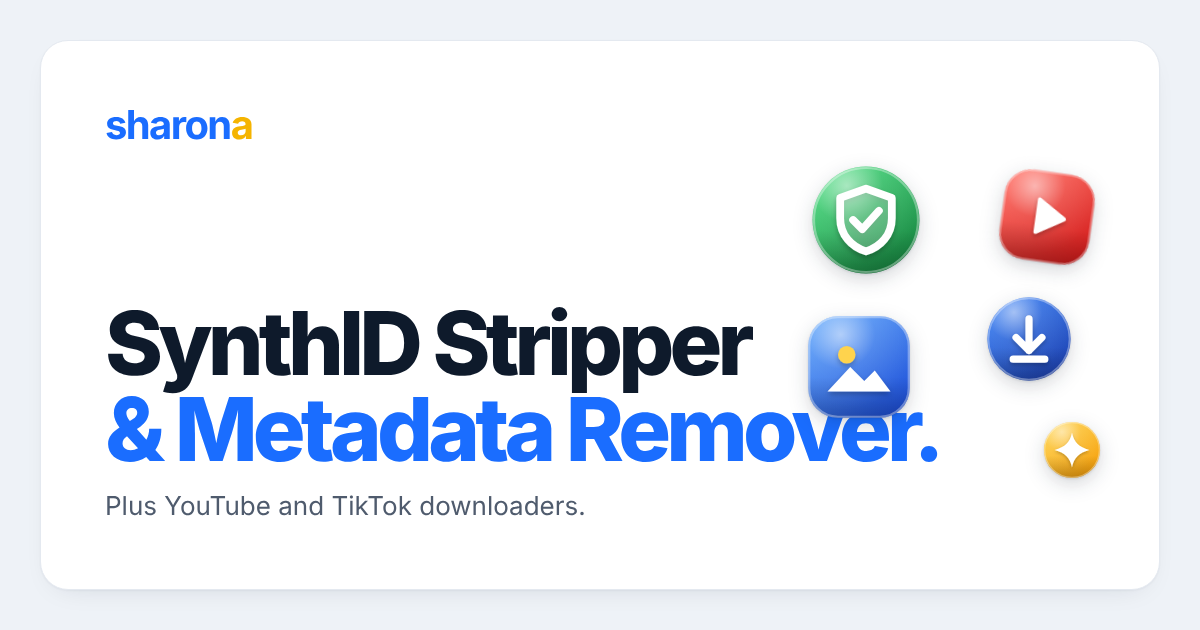
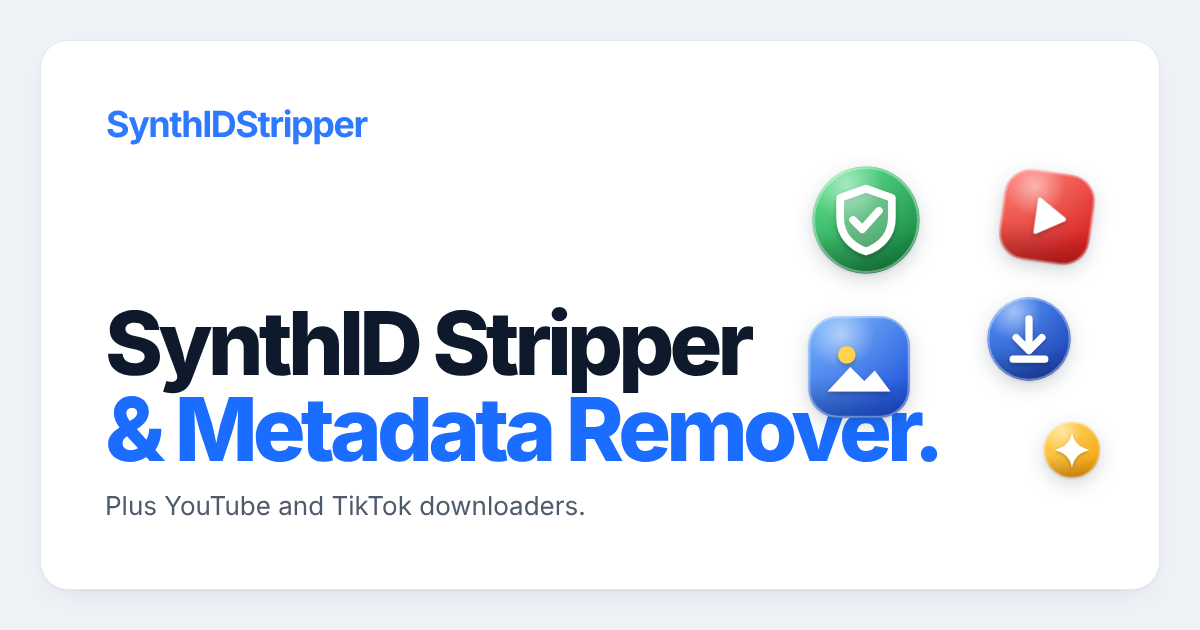
Rebrand to SynthIDStripper, Pro promo on download guides, fix AI-label screenshots
- Product name is SynthIDStripper everywhere users see it: wordmarks, titles,
  meta and OG tags, JSON-LD (via SITE_NAME), web manifest, 404 page, OG image,
  README and setup docs (Stripe product and Google OAuth names). Internal
  identifiers (D1 databases, Durable Object class, internal header and its
  HMAC salt) keep their names so production keeps working.
- Download guides show a Pro card and a Pro-only plans promo instead of the
  $2 strip pack, which doesn't cover downloads. New copy in all 10 languages.
- The Auto-labelled / Your choice tags sit above the screenshots instead of
  over them, and both screenshots now render at the same size.
- Header spacing tuned so the longer wordmark fits on phones and desktop.

Claude-Session: https://claude.ai/code/session_01FnJ4GKznDkuGtkakc6XU88

Changed region(s): [[0.0925, 0.1508, 0.3083, 0.2413]]

diff --git a/web/src/pages/Pages.tsx b/web/src/pages/Pages.tsx
@@ -143,7 +143,7 @@ export function Shell({
   return (
     <div className="page doc-page">
       <header className="card doc-head">
-        <a className="wordmark" href={langPath(lang)} aria-label={`${SITE_NAME} ${ui.home}`}>sharona</a>
+        <a className="wordmark" href={langPath(lang)} aria-label={`${SITE_NAME} ${ui.home}`}>SynthIDStripper</a>
         <nav className="nav" aria-label={ui.navLabel}>
           <a href={`${langPrefix(lang)}/guides/`}>{ui.guides}</a>
           <a href={`${langPath(lang)}#pricing`}>{ui.pricing}</a>
@@ -241,21 +241,44 @@ export function PackCard({ lang, top }: { lang: string; top?: boolean }) {
 }
 
 /**
- * The plans promo (the $2 strip pack, Basic and Pro) shown on every guide and
- * content page. Copy comes from the landing page's pricing strings, so it
- * matches the pricing section in every language.
+ * The download guides' top card: downloads run on our server and need Pro, so
+ * the $2 strip pack would not help these readers. Styled like PackCard.
  */
-export function PlansPromo({ lang }: { lang: string }) {
+export function ProDownloadCard({ lang, tool }: { lang: string; tool: string }) {
   const ui = pagesUi(lang);
   const p = getDict(lang).pricing;
   return (
+    <div className="price-pack pack-top">
+      <span className="price-pack-badge">{ui.promo.download.badge}</span>
+      <div>
+        <p className="price-name">{p.pro.name}</p>
+        <p className="price-pack-text">{fill(ui.promo.download.cardText)}</p>
+      </div>
+      <p className="price-tag"><b>{PRICES.pro}</b> {p.perMonth}</p>
+      <a className="cta" href={`${APP}#${tool}`}>{ui.promo.download.cta}</a>
+    </div>
+  );
+}
+
+/**
+ * The plans promo (the $2 strip pack, Basic and Pro) shown on every guide and
+ * content page. Copy comes from the landing page's pricing strings, so it
+ * matches the pricing section in every language. On download guides
+ * (`downloads`) it shows only Pro, the one plan that includes downloads.
+ */
+export function PlansPromo({ lang, downloads }: { lang: string; downloads?: boolean }) {
+  const ui = pagesUi(lang);
+  const p = getDict(lang).pricing;
+  const copy = downloads ? ui.promo.download : ui.promo;
+  const plans = downloads ? (['pro'] as const) : (['basic', 'pro'] as const);
+  return (
     <aside className="card promo" aria-labelledby="promo-h">
       <p className="eyebrow">{ui.promo.eyebrow}</p>
-      <h2 id="promo-h" className="display xs"><Pair p={[fill(ui.promo.title[0]), fill(ui.promo.title[1])]} /></h2>
-      <p className="lede">{fill(ui.promo.text)}</p>
-      <PackCard lang={lang} />
-      <div className="price-plans">
-        {(['basic', 'pro'] as const).map((id) => {
+      <h2 id="promo-h" className="display xs"><Pair p={[fill(copy.title[0]), fill(copy.title[1])]} /></h2>
+      <p className="lede">{fill(copy.text)}</p>
+      {!downloads && <PackCard lang={lang} />}
+      <div className={`price-plans${downloads ? ' price-plans-one' : ''}`}>
+        {plans.map((id) => {
           const plan = p[id];
           return (
             <div key={id} className={`price${id === 'pro' ? ' price-best' : ''}`}>
@@ -293,6 +316,7 @@ export function GuidePage({ guide: g, lang = DEFAULT_LANG }: { guide: Guide; lan
     .map((r) => r && localGuide(r, lang))
     .filter((r): r is Guide => Boolean(r));
   const showToc = g.sections.length >= 4;
+  const downloads = g.kind === 'download';
   return (
     <Shell
       lang={lang}
@@ -309,7 +333,7 @@ export function GuidePage({ guide: g, lang = DEFAULT_LANG }: { guide: Guide; lan
           </div>
         </div>
         {g.intro.map((p) => <p key={p} className="lede doc-lede"><Rich s={p} lang={lang} /></p>)}
-        <PackCard lang={lang} top />
+        {downloads ? <ProDownloadCard lang={lang} tool={g.tool} /> : <PackCard lang={lang} top />}
 
         {showToc && (
           <nav className="toc" aria-label={ui.contents}>
@@ -346,7 +370,7 @@ export function GuidePage({ guide: g, lang = DEFAULT_LANG }: { guide: Guide; lan
         )}
       </article>
 
-      <PlansPromo lang={lang} />
+      <PlansPromo lang={lang} downloads={downloads} />
 
       {related.length > 0 && (
         <nav className="card doc-related" aria-labelledby="related">

diff --git a/test/worker.test.js b/test/worker.test.js
@@ -13,7 +13,7 @@ const { spawn } = require('child_process');
 const { d1Http, createStore } = require('../server/store');
 const { fakeD1 } = require('./fake-d1');
 
-const SITE = 'https://sharona.test';
+const SITE = 'https://synthidstripper.test';
 const SECRET = 'session-secret-for-tests';
 
 const ASSET_FILES = {
@@ -83,9 +83,9 @@ test('pages, static files and every on-device step are answered by the Worker al
   const s = await setup();
   const res = await s.call('GET', '/');
   assert.equal(res.status, 200);
-  assert.equal(await res.text(), `<a href="${SITE}/app/">support@sharona.test</a>`);
+  assert.equal(await res.text(), `<a href="${SITE}/app/">support@synthidstripper.test</a>`);
   assert.equal((await s.call('GET', '/app/')).status, 200);
-  assert.match(await (await s.call('GET', '/app/#strip')).text(), /sharona\.test/);
+  assert.match(await (await s.call('GET', '/app/#strip')).text(), /synthidstripper\.test/);
   assert.equal((await s.call('GET', '/app')).headers.get('location'), '/app/');
   assert.equal((await s.call('GET', '/es')).headers.get('location'), '/es/');
   assert.equal((await s.call('GET', '/es/')).status, 200);
@@ -100,10 +100,10 @@ test('pages, static files and every on-device step are answered by the Worker al
   assert.match(js.headers.get('cache-control'), /immutable/);
   assert.equal((await s.call('GET', '/assets/ffmpeg-core-1.wasm.part0')).status, 200);
   const sitemap = await (await s.call('GET', '/sitemap.xml')).text();
-  assert.match(sitemap, /<loc>https:\/\/sharona\.test\/es\/<\/loc>/);
-  assert.match(sitemap, /<loc>https:\/\/sharona\.test\/es\/guides\/strip-synthid\/<\/loc>/);
-  assert.match(sitemap, /hreflang="es" href="https:\/\/sharona\.test\/es\/guides\/strip-synthid\/"/);
-  assert.match(sitemap, /hreflang="x-default" href="https:\/\/sharona\.test\/guides\/strip-synthid\/"/);
+  assert.match(sitemap, /<loc>https:\/\/synthidstripper\.test\/es\/<\/loc>/);
+  assert.match(sitemap, /<loc>https:\/\/synthidstripper\.test\/es\/guides\/strip-synthid\/<\/loc>/);
+  assert.match(sitemap, /hreflang="es" href="https:\/\/synthidstripper\.test\/es\/guides\/strip-synthid\/"/);
+  assert.match(sitemap, /hreflang="x-default" href="https:\/\/synthidstripper\.test\/guides\/strip-synthid\/"/);
   assert.match(await (await s.call('GET', '/robots.txt')).text(), /Disallow: \/api\//);
   assert.deepEqual(await (await s.call('GET', '/api/health')).json(), { ok: true });
   assert.equal((await (await s.call('GET', '/api/download/platforms')).json()).length, 4);
@@ -365,7 +365,7 @@ test('a branch preview: dev sign-in and test upgrade, its own URL, kept out of s
   assert.equal(me.signIn, 'dev');
   assert.deepEqual(me.dev, { auth: true, billing: true });
   // Links use the request's own origin (SITE_URL is empty).
-  assert.match(await (await s.call('GET', '/app/')).text(), /https:\/\/sharona\.test/);
+  assert.match(await (await s.call('GET', '/app/')).text(), /https:\/\/synthidstripper\.test/);
   assert.equal(await (await s.call('GET', '/robots.txt')).text(), 'User-agent: *\nDisallow: /\n');
   // Sign in without Google, upgrade without Stripe, then a download goes through.
   const signIn = await s.call('GET', '/api/auth/dev?email=tester@preview&next=/app/');

diff --git a/web/src/landing/landing.css b/web/src/landing/landing.css
@@ -9,7 +9,7 @@ a { color: inherit; }
 .page { gap: 16px; }
 section[id] { scroll-margin-top: 16px; }
 
-.wordmark { text-decoration: none; }
+.wordmark { text-decoration: none; white-space: nowrap; }
 .hero .card-head { gap: 8px 22px; }
 .nav { display: flex; flex-wrap: wrap; justify-content: flex-end; align-items: center; gap: 4px 14px; min-width: 0; margin-left: auto; font-weight: 650; font-size: 14.5px; }
 .nav a { text-decoration: none; color: var(--soft); white-space: nowrap; }
@@ -220,7 +220,7 @@ h3 { font-size: 17px; font-weight: 750; letter-spacing: -0.015em; }
   .price-pack { justify-items: start; }
   /* Header: wordmark, "Open tools" and a burger on one row; the section
      links drop down from the burger. */
-  .hero .wordmark { font-size: 26px; margin-right: auto; }
+  .hero .wordmark { font-size: clamp(16px, 4.8vw, 26px); margin-right: auto; }
   .head-cta { padding: 10px 16px; }
   .hero .hero-body { margin-top: 26px; }
   .eyebrow { font-size: 11.5px; margin-bottom: 12px; }
@@ -435,13 +435,13 @@ h3 { font-size: 17px; font-weight: 750; letter-spacing: -0.015em; }
 
 /* ---------- "Stop the AI label" before/after screenshots ---------- */
 .shots { margin-top: 24px; display: grid; grid-template-columns: repeat(2, minmax(0, 1fr)); gap: 16px; }
-.shot { position: relative; margin: 0; padding: 14px; border-radius: 22px; background: #f8fafc; border: 1px solid var(--line); }
-.shot img { display: block; width: 100%; height: auto; border-radius: 13px; border: 1px solid var(--line); background: #fff; }
+.shot { margin: 0; padding: 14px; border-radius: 22px; background: #f8fafc; border: 1px solid var(--line); }
+/* Both screenshots share one box, so they render at the same size. */
+.shot img { display: block; width: 100%; height: auto; aspect-ratio: 1072 / 299; object-fit: contain; border-radius: 13px; border: 1px solid var(--line); background: #f8f8f8; }
+/* The tag sits above the screenshot, not over it. */
 .shot-tag {
-  position: absolute;
-  z-index: 1;
-  top: 24px;
-  right: 24px;
+  display: inline-block;
+  margin-bottom: 10px;
   padding: 4px 11px;
   border-radius: 999px;
   font-size: 12px;
@@ -559,4 +559,11 @@ h3 { font-size: 17px; font-weight: 750; letter-spacing: -0.015em; }
 
 @media (max-width: 640px) {
   .shots { grid-template-columns: minmax(0, 1fr); }
+}
+
+/* The longer "SynthIDStripper" wordmark: keep the desktop nav on one line. */
+@media (min-width: 1081px) {
+  .hero .wordmark { font-size: 24px; }
+  .hero .card-head { gap: 8px 16px; }
+  .nav { gap: 4px 10px; font-size: 14px; }
 }

diff --git a/web/src/pages/i18n/ru.ts b/web/src/pages/i18n/ru.ts
@@ -65,6 +65,13 @@ export const ru: PagesTranslation = {
       text: 'Первые очистки и скачивания бесплатны. Дальше попробуйте 10 очисток SynthID за $2 или переходите на безлимит с Basic или Pro.',
       orYearly: 'или {price} / год',
       seePlans: 'Сравнить все тарифы',
+      download: {
+        badge: 'Безлимитные скачивания',
+        title: ['Скачивайте без ограничений.', 'С Pro.'],
+        text: 'Первое скачивание видео бесплатно. Скачивание идёт через наш сервер, поэтому дальше нужен Pro: безлимитные скачивания с YouTube, X, TikTok и Instagram и более быстрая очистка.',
+        cardText: 'Безлимитное скачивание видео с YouTube, X, TikTok и Instagram, плюс очистка на сервере примерно в 4 раза быстрее. Отмена в любой момент.',
+        cta: 'Скачивать без ограничений',
+      },
     },
   },
   guides: {

diff --git a/web/src/landing/pages.css b/web/src/landing/pages.css
@@ -68,7 +68,7 @@
   .foot-cols, .guide-list, .doc-steps .steps { grid-template-columns: minmax(0, 1fr); }
   .doc-head .nav { display: none; }
   .doc-head .head-cta { margin-left: auto; }
-  .doc-head .wordmark { font-size: 26px; }
+  .doc-head .wordmark { font-size: clamp(16px, 4.8vw, 26px); }
   .doc-top { flex-direction: column; gap: 14px; }
   .doc-steps { padding: 18px; }
   .toc ol { columns: 1; }
@@ -82,3 +82,18 @@
 .promo-more { margin-left: auto; color: var(--blue); font-weight: 700; text-decoration: none; }
 .promo-more:hover { text-decoration: underline; }
 .pack-top { margin-top: 30px; }
+.price-plans-one { grid-template-columns: minmax(0, 1fr); max-width: 460px; }
+
+/* Narrow phones: keep the wordmark, language and "Open tools" on one row. */
+@media (max-width: 420px) {
+  .hero .card-head, .doc-head { gap: 8px 10px; }
+  .doc-head { padding-left: 14px; padding-right: 14px; }
+  .card-head .head-cta, .doc-head .head-cta { padding: 9px 12px; }
+}
+@media (max-width: 359px) {
+  .card-head .head-cta, .doc-head .head-cta { display: none; }
+}
+@media (min-width: 641px) and (max-width: 900px) {
+  .doc-head { gap: 10px 14px; }
+  .doc-head .wordmark { font-size: 22px; }
+}

diff --git a/web/src/landing/Landing.tsx b/web/src/landing/Landing.tsx
@@ -21,7 +21,7 @@ export default function Landing({ siteUrl, lang }: { siteUrl: string; lang: stri
         <section className="card hero" aria-labelledby="top">
           <header className="card-head">
             <a className="wordmark" href={langPath(lang)} aria-label={fill(t.nav.home)}>
-              sharona
+              SynthIDStripper
             </a>
             <nav className="nav" aria-label={t.nav.label}>
               <NavLinks t={t} lang={lang} />
@@ -105,7 +105,7 @@ export default function Landing({ siteUrl, lang }: { siteUrl: string; lang: stri
             </figure>
             <figure className="shot">
               <span className="shot-tag good">{t.detection.cleanTag}</span>
-              <img src="/tiktok-ai-label-optional.jpg" width={1073} height={280} loading="lazy" decoding="async"
+              <img src="/tiktok-ai-label-optional.jpg?v=2" width={1072} height={299} loading="lazy" decoding="async"
                    alt={fill(t.detection.shotOptionalAlt)} />
               <figcaption><b>{fill(t.detection.afterTitle)}</b> {fill(t.detection.afterText)}</figcaption>
             </figure>

diff --git a/web/src/pages/i18n/ja.ts b/web/src/pages/i18n/ja.ts
@@ -65,6 +65,13 @@ export const ja: PagesTranslation = {
       text: '最初の除去とダウンロードは無料です。その後はSynthID除去10回を$2で試すか、BasicまたはProで無制限に使えます。',
       orYearly: 'または {price} / 年',
       seePlans: 'すべてのプランを比較',
+      download: {
+        badge: 'ダウンロード無制限',
+        title: ['ダウンロードを無制限に。', 'Proで。'],
+        text: '最初の動画ダウンロードは無料です。ダウンロードは当社のサーバーで行うため、その後はProが必要です。YouTube、X、TikTok、Instagramから無制限にダウンロードでき、除去も速くなります。',
+        cardText: 'YouTube、X、TikTok、Instagramから動画を無制限にダウンロード。サーバーでの除去も約4倍速くなります。いつでも解約できます。',
+        cta: '無制限にダウンロード',
+      },
     },
   },
   guides: {

diff --git a/web/src/pages/i18n/fr.ts b/web/src/pages/i18n/fr.ts
@@ -65,6 +65,13 @@ export const fr: PagesTranslation = {
       text: 'Vos premiers nettoyages et téléchargements sont gratuits. Ensuite, essayez 10 nettoyages SynthID pour 2 $, ou passez en illimité avec Basic ou Pro.',
       orYearly: 'ou {price} / an',
       seePlans: 'Comparer toutes les offres',
+      download: {
+        badge: 'Téléchargements illimités',
+        title: ['Téléchargez sans limite.', 'Passez à Pro.'],
+        text: 'Votre premier téléchargement vidéo est gratuit. Les téléchargements passent par notre serveur, donc ensuite il faut Pro : téléchargements illimités depuis YouTube, X, TikTok et Instagram, et nettoyage plus rapide.',
+        cardText: 'Téléchargements vidéo illimités depuis YouTube, X, TikTok et Instagram, plus le nettoyage sur serveur environ 4x plus rapide. Résiliable à tout moment.',
+        cta: 'Télécharger sans limite',
+      },
     },
   },
   guides: {

diff --git a/web/src/pages/i18n/ko.ts b/web/src/pages/i18n/ko.ts
@@ -65,6 +65,13 @@ export const ko: PagesTranslation = {
       text: '첫 제거와 다운로드는 무료입니다. 그다음에는 SynthID 제거 10회를 $2에 써 보거나 Basic 또는 Pro로 무제한 이용하세요.',
       orYearly: '또는 {price} / 년',
       seePlans: '모든 요금제 비교',
+      download: {
+        badge: '무제한 다운로드',
+        title: ['제한 없이 다운로드.', 'Pro로.'],
+        text: '첫 동영상 다운로드는 무료입니다. 다운로드는 저희 서버에서 처리되므로 그다음에는 Pro가 필요합니다. YouTube, X, TikTok, Instagram에서 무제한 다운로드하고 더 빠르게 제거하세요.',
+        cardText: 'YouTube, X, TikTok, Instagram 동영상 무제한 다운로드, 그리고 약 4배 빠른 서버 제거. 언제든지 해지할 수 있습니다.',
+        cta: '무제한 다운로드',
+      },
     },
   },
   guides: {

diff --git a/web/src/pages/i18n/de.ts b/web/src/pages/i18n/de.ts
@@ -65,6 +65,13 @@ export const de: PagesTranslation = {
       text: 'Deine ersten Bereinigungen und Downloads sind kostenlos. Danach teste 10 SynthID-Bereinigungen für 2 $ oder nutze alles unbegrenzt mit Basic oder Pro.',
       orYearly: 'oder {price} / Jahr',
       seePlans: 'Alle Tarife vergleichen',
+      download: {
+        badge: 'Unbegrenzte Downloads',
+        title: ['Ohne Limit herunterladen.', 'Mit Pro.'],
+        text: 'Dein erster Video-Download ist kostenlos. Downloads laufen über unseren Server, danach brauchst du Pro: unbegrenzte Downloads von YouTube, X, TikTok und Instagram und schnelleres Bereinigen.',
+        cardText: 'Unbegrenzte Video-Downloads von YouTube, X, TikTok und Instagram, dazu Server-Bereinigung, etwa 4x schneller. Jederzeit kündbar.',
+        cta: 'Unbegrenzt herunterladen',
+      },
     },
   },
   guides: {

diff --git a/web/src/pages/i18n/es.ts b/web/src/pages/i18n/es.ts
@@ -65,6 +65,13 @@ export const es: PagesTranslation = {
       text: 'Tus primeras limpiezas y descargas son gratis. Después, prueba 10 limpiezas de SynthID por $2 o pásate a ilimitado con Basic o Pro.',
       orYearly: 'o {price} / año',
       seePlans: 'Comparar todos los planes',
+      download: {
+        badge: 'Descargas ilimitadas',
+        title: ['Descarga sin límites.', 'Pásate a Pro.'],
+        text: 'Tu primera descarga de vídeo es gratis. Las descargas se hacen en nuestro servidor, así que después necesitas Pro: descargas ilimitadas de YouTube, X, TikTok e Instagram, y limpieza más rápida.',
+        cardText: 'Descargas de vídeo ilimitadas de YouTube, X, TikTok e Instagram, y limpieza en el servidor unas 4 veces más rápida. Cancela cuando quieras.',
+        cta: 'Descargas ilimitadas',
+      },
     },
   },
   guides: {

diff --git a/web/src/pages/i18n/pt.ts b/web/src/pages/i18n/pt.ts
@@ -65,6 +65,13 @@ export const pt: PagesTranslation = {
       text: 'Suas primeiras limpezas e downloads são grátis. Depois, teste 10 limpezas de SynthID por $2 ou vá para o ilimitado com o Basic ou o Pro.',
       orYearly: 'ou {price} / ano',
       seePlans: 'Comparar todos os planos',
+      download: {
+        badge: 'Downloads ilimitados',
+        title: ['Baixe sem limites.', 'Vá de Pro.'],
+        text: 'Seu primeiro download de vídeo é grátis. Os downloads rodam no nosso servidor, então depois disso você precisa do Pro: downloads ilimitados do YouTube, X, TikTok e Instagram, e limpeza mais rápida.',
+        cardText: 'Downloads de vídeo ilimitados do YouTube, X, TikTok e Instagram, mais limpeza no servidor cerca de 4x mais rápida. Cancele quando quiser.',
+        cta: 'Baixar sem limites',
+      },
     },
   },
   guides: {
